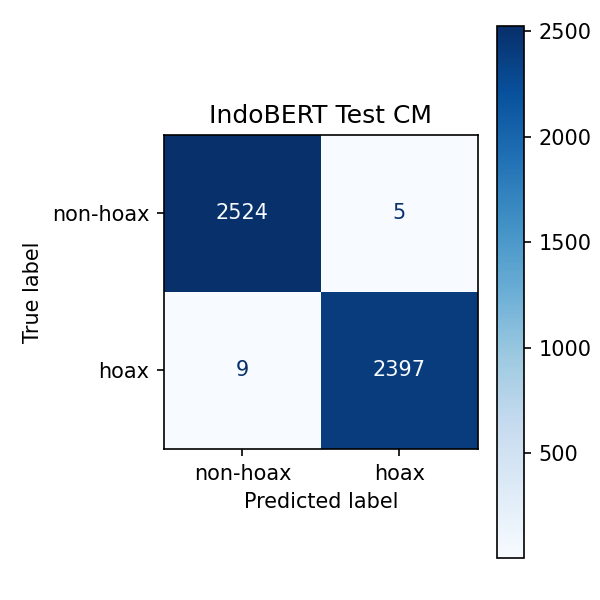
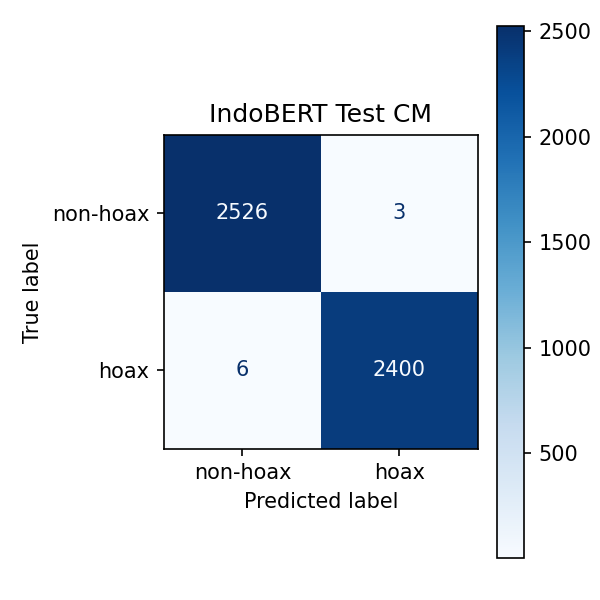
Improved IndoBERT

diff --git a/scripts/predict_text.py b/scripts/predict_text.py
@@ -1,0 +1,81 @@
+"""
+Simple CLI to run FastText and/or IndoBERT predictions on a given text.
+
+Usage examples (run from repo root):
+  python scripts/predict_text.py --title "Judul" --body "Isi ..." --model both
+  python scripts/predict_text.py --text "Kalimat lengkap ..." --model indobert
+  python scripts/predict_text.py --text-file path/to/file.txt --model fasttext
+
+Note: This script ensures the repo root is on sys.path so that `src` can be imported
+without needing to install the package.
+"""
+
+from __future__ import annotations
+
+import argparse
+import sys
+from pathlib import Path
+
+
+def _ensure_repo_on_syspath() -> None:
+    # Add repo root (parent of this scripts folder) to sys.path if needed
+    here = Path(__file__).resolve()
+    repo_root = here.parents[1]
+    if str(repo_root) not in sys.path:
+        sys.path.insert(0, str(repo_root))
+
+
+_ensure_repo_on_syspath()
+
+# Now we can import project functions
+try:
+    from src.modeling.predict import predict_fasttext, predict_indobert
+except Exception:
+    print("Gagal mengimpor modul prediksi dari src. Pastikan menjalankan dari root repo.")
+    raise
+
+
+def build_text(args: argparse.Namespace) -> str:
+    if args.text:
+        return args.text
+    if args.text_file:
+        path = Path(args.text_file)
+        return path.read_text(encoding="utf-8")
+    if args.title or args.body:
+        title = (args.title or "").strip()
+        body = (args.body or "").strip()
+        return f"{title}\n\n{body}".strip()
+    raise SystemExit("Harap isi salah satu: --text, --text-file, atau gabungan --title/--body")
+
+
+def main() -> None:
+    parser = argparse.ArgumentParser(description="Prediksi hoaks/bukan hoaks dengan FastText/IndoBERT")
+    parser.add_argument("--title", type=str, default=None, help="Judul teks (opsional)")
+    parser.add_argument("--body", type=str, default=None, help="Isi teks (opsional)")
+    parser.add_argument("--text", type=str, default=None, help="Teks lengkap (alternatif)")
+    parser.add_argument("--text-file", type=str, default=None, help="File berisi teks (alternatif)")
+    parser.add_argument(
+        "--model",
+        type=str,
+        choices=["fasttext", "indobert", "both"],
+        default="both",
+        help="Model yang digunakan",
+    )
+
+    args = parser.parse_args()
+    text = build_text(args)
+
+    def label_to_str(y: int) -> str:
+        return "hoaks" if int(y) == 1 else "bukan hoaks"
+
+    if args.model in ("fasttext", "both"):
+        y_ft = predict_fasttext([text])[0]
+        print(f"FastText: {label_to_str(y_ft)}")
+
+    if args.model in ("indobert", "both"):
+        y_bert = predict_indobert([text])[0]
+        print(f"IndoBERT: {label_to_str(y_bert)}")
+
+
+if __name__ == "__main__":
+    main()

diff --git a/src/modeling/train.py b/src/modeling/train.py
@@ -152,6 +152,21 @@ def train_indobert(
     model = AutoModelForSequenceClassification.from_pretrained(model_name, num_labels=2)
     collator = DataCollatorWithPadding(tokenizer)
 
+    # Mixed precision selection (CUDA only)
+    use_fp16 = False
+    use_bf16 = False
+    if torch.cuda.is_available():
+        try:
+            if (
+                hasattr(torch.cuda, "is_bf16_supported")
+                and torch.cuda.is_bf16_supported()
+            ):
+                use_bf16 = True
+            else:
+                use_fp16 = True
+        except Exception:
+            use_fp16 = True
+
     training_args = TrainingArguments(
         output_dir=SETTINGS.indobert_model_dir,
         overwrite_output_dir=True,
@@ -162,6 +177,8 @@ def train_indobert(
         logging_steps=50,
         seed=SETTINGS.random_seed,
         report_to=[],
+        fp16=use_fp16,
+        bf16=use_bf16,
     )
 
     def hf_compute_metrics(eval_pred):
@@ -184,21 +201,17 @@ def train_indobert(
     )
 
     trainer.train()
-    # Save model
     trainer.save_model(SETTINGS.indobert_model_dir)
 
-    # Evaluate after training
+    # Evaluate and save artifacts
     val_metrics = trainer.evaluate(val_ds)
     test_metrics = trainer.evaluate(test_ds)
-
-    # Predictions for confusion matrix/report
     preds = np.argmax(trainer.predict(test_ds).predictions, axis=-1)
     y_true = test_df["label"].values
     plot_confusion_matrix(
         y_true, preds, title="IndoBERT Test CM", fname="cm_indobert.png"
     )
     save_classification_report(y_true, preds, fname="report_indobert.txt")
-
     return {"val": val_metrics, "test": test_metrics}
 
 
@@ -226,6 +239,7 @@ def run_indobert_and_compare_barplot(epochs: int = 1) -> str:
     # If model not trained yet, do a short training
     try:
         from .predict import predict_fasttext  # noqa: F401
+
         fasttext_available = os.path.exists(SETTINGS.fasttext_model_path)
     except Exception:
         fasttext_available = False
@@ -234,6 +248,7 @@ def run_indobert_and_compare_barplot(epochs: int = 1) -> str:
         ft_test = ft_res["test"]
     else:
         import fasttext
+
         model = fasttext.load_model(SETTINGS.fasttext_model_path)
         texts = normalize_batch(test_df["text"].tolist())
         preds = [int(model.predict(t)[0][0].replace("__label__", "")) for t in texts]

diff --git a/src/plots.py b/src/plots.py
@@ -32,7 +32,12 @@ def save_classification_report(
         f.write(report)
     return out_path
 
-def plot_metrics_comparison(models_metrics: dict, fname: str = "metrics_compare.png", title: str = "Model Comparison (Test)") -> str:
+
+def plot_metrics_comparison(
+    models_metrics: dict,
+    fname: str = "metrics_compare.png",
+    title: str = "Model Comparison (Test)",
+) -> str:
     # Expected shape: {"FastText": {"accuracy": float, "precision": float, "recall": float, "f1": float}, "IndoBERT": {...}}
     metrics = ["accuracy", "precision", "recall", "f1"]
     model_names = list(models_metrics.keys())
@@ -42,7 +47,7 @@ def plot_metrics_comparison(models_metrics: dict, fname: str = "metrics_compare.
     fig, ax = plt.subplots(figsize=(7, 4))
     for i, model in enumerate(model_names):
         vals = [models_metrics[model].get(m, np.nan) for m in metrics]
-        ax.bar(x + (i - (len(model_names)-1)/2) * width, vals, width, label=model)
+        ax.bar(x + (i - (len(model_names) - 1) / 2) * width, vals, width, label=model)
 
     ax.set_xticks(x)
     ax.set_xticklabels([m.title() for m in metrics])
